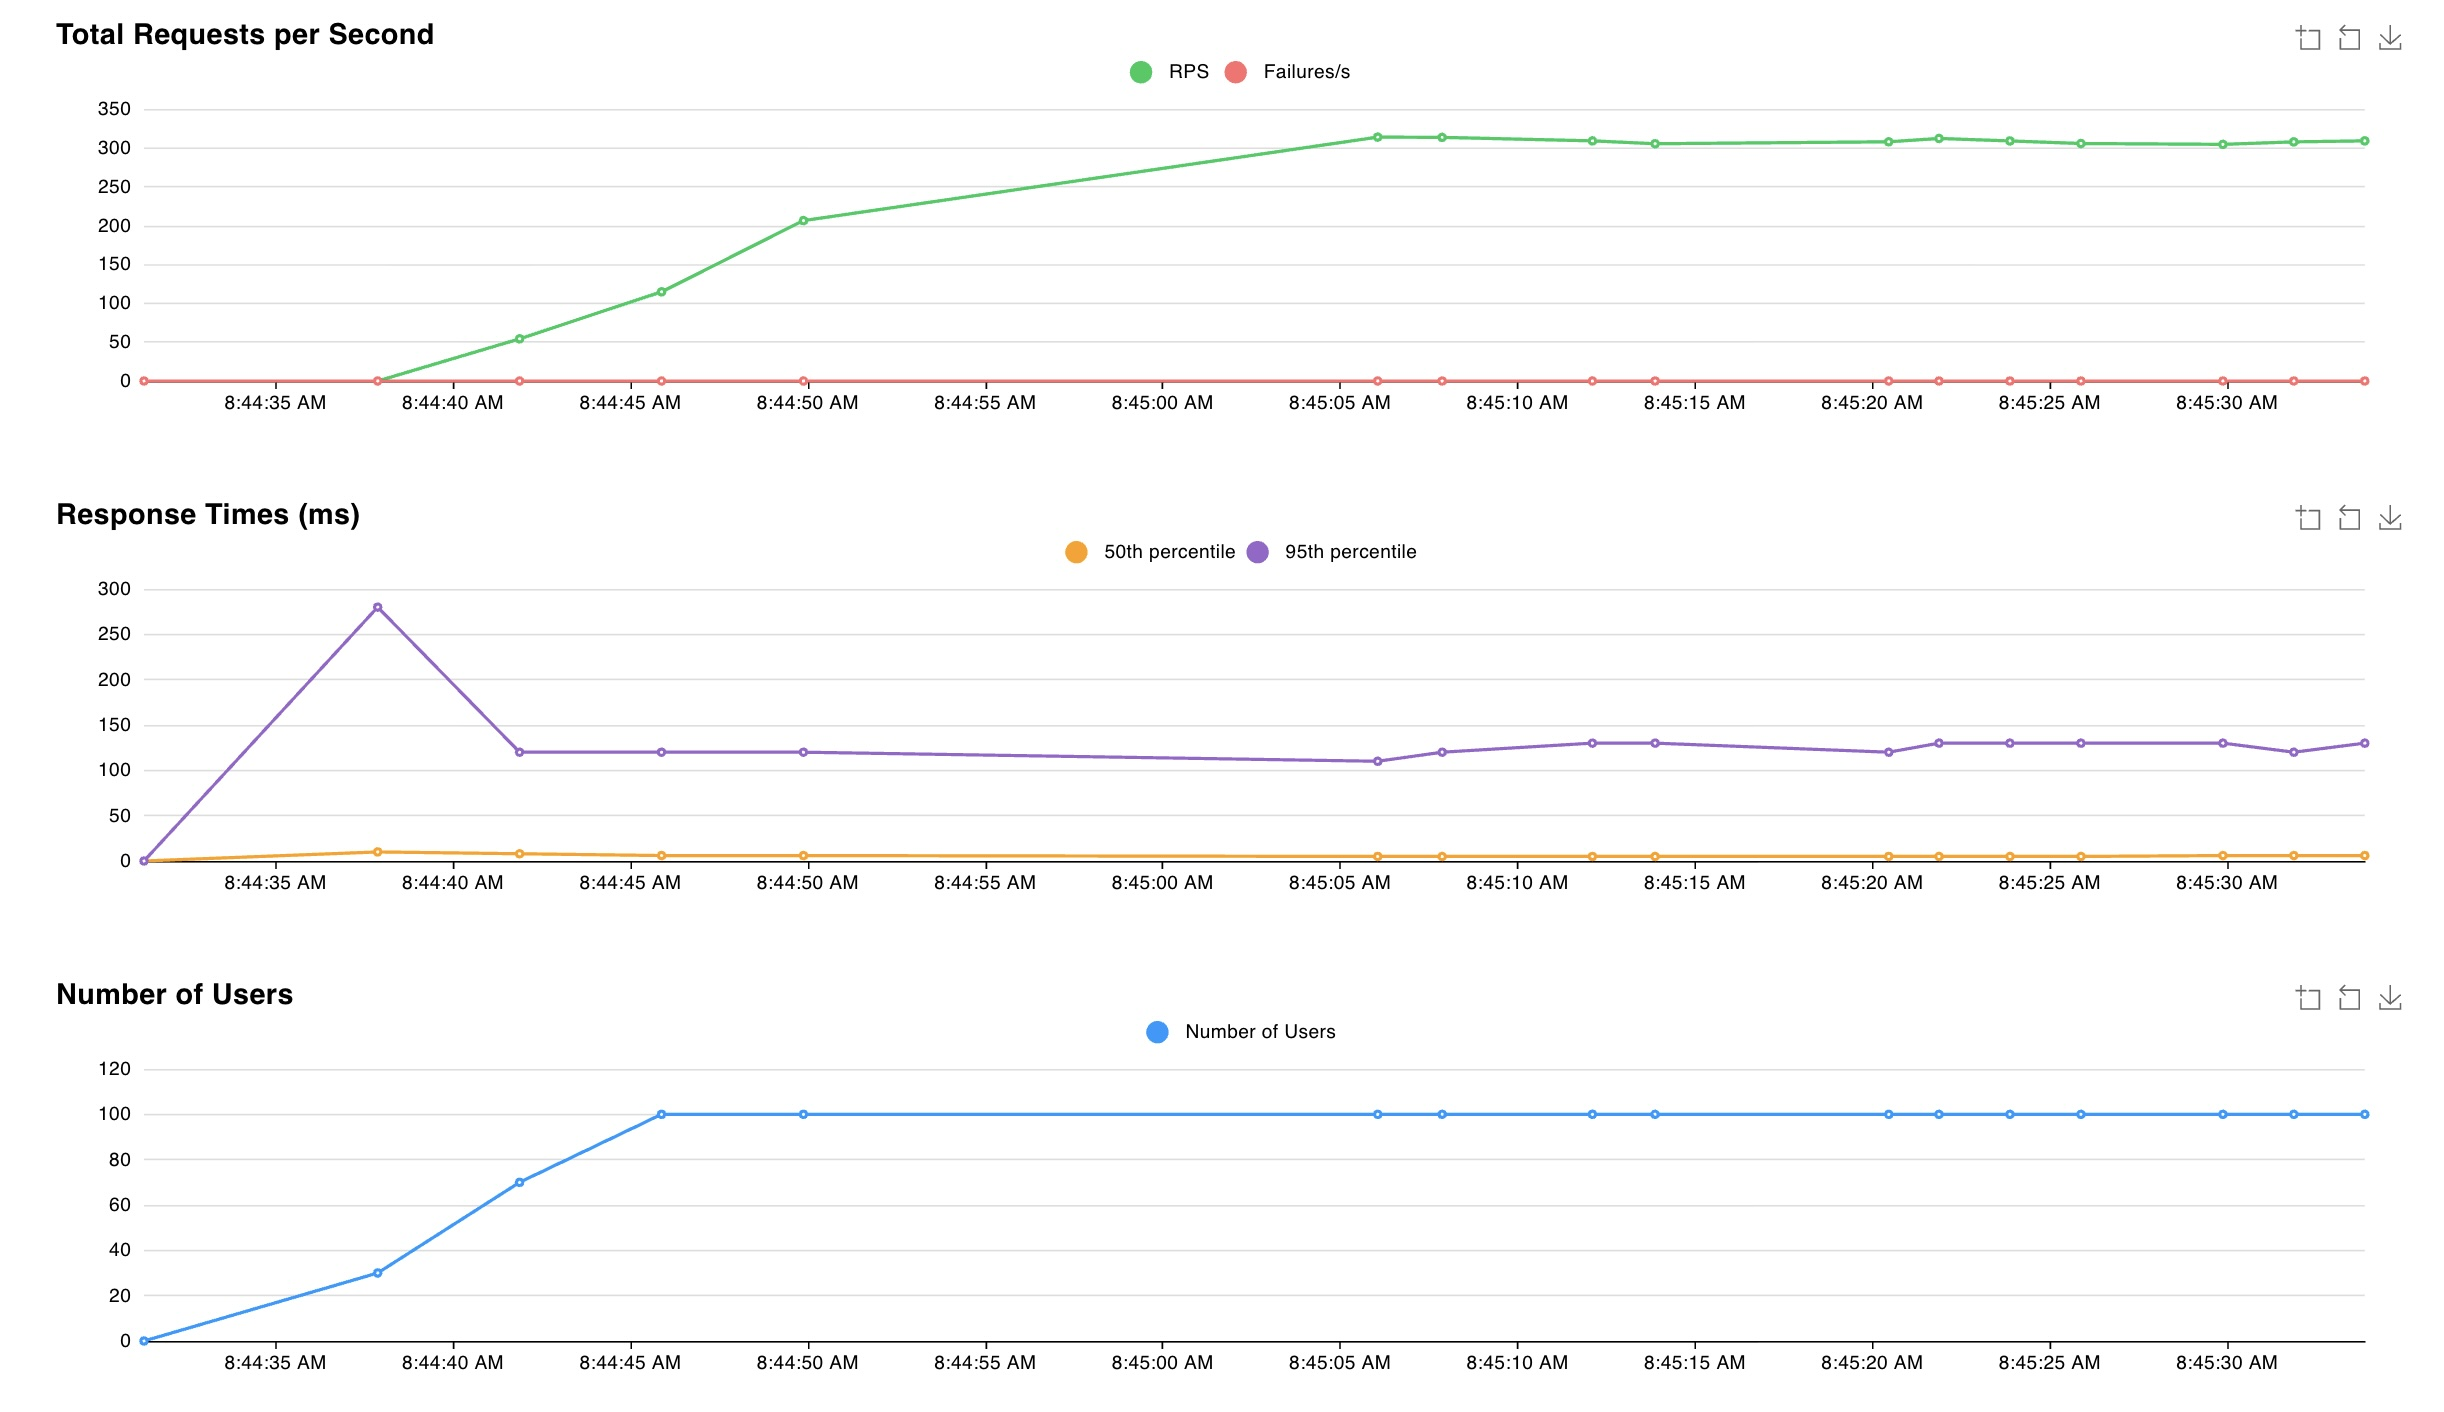
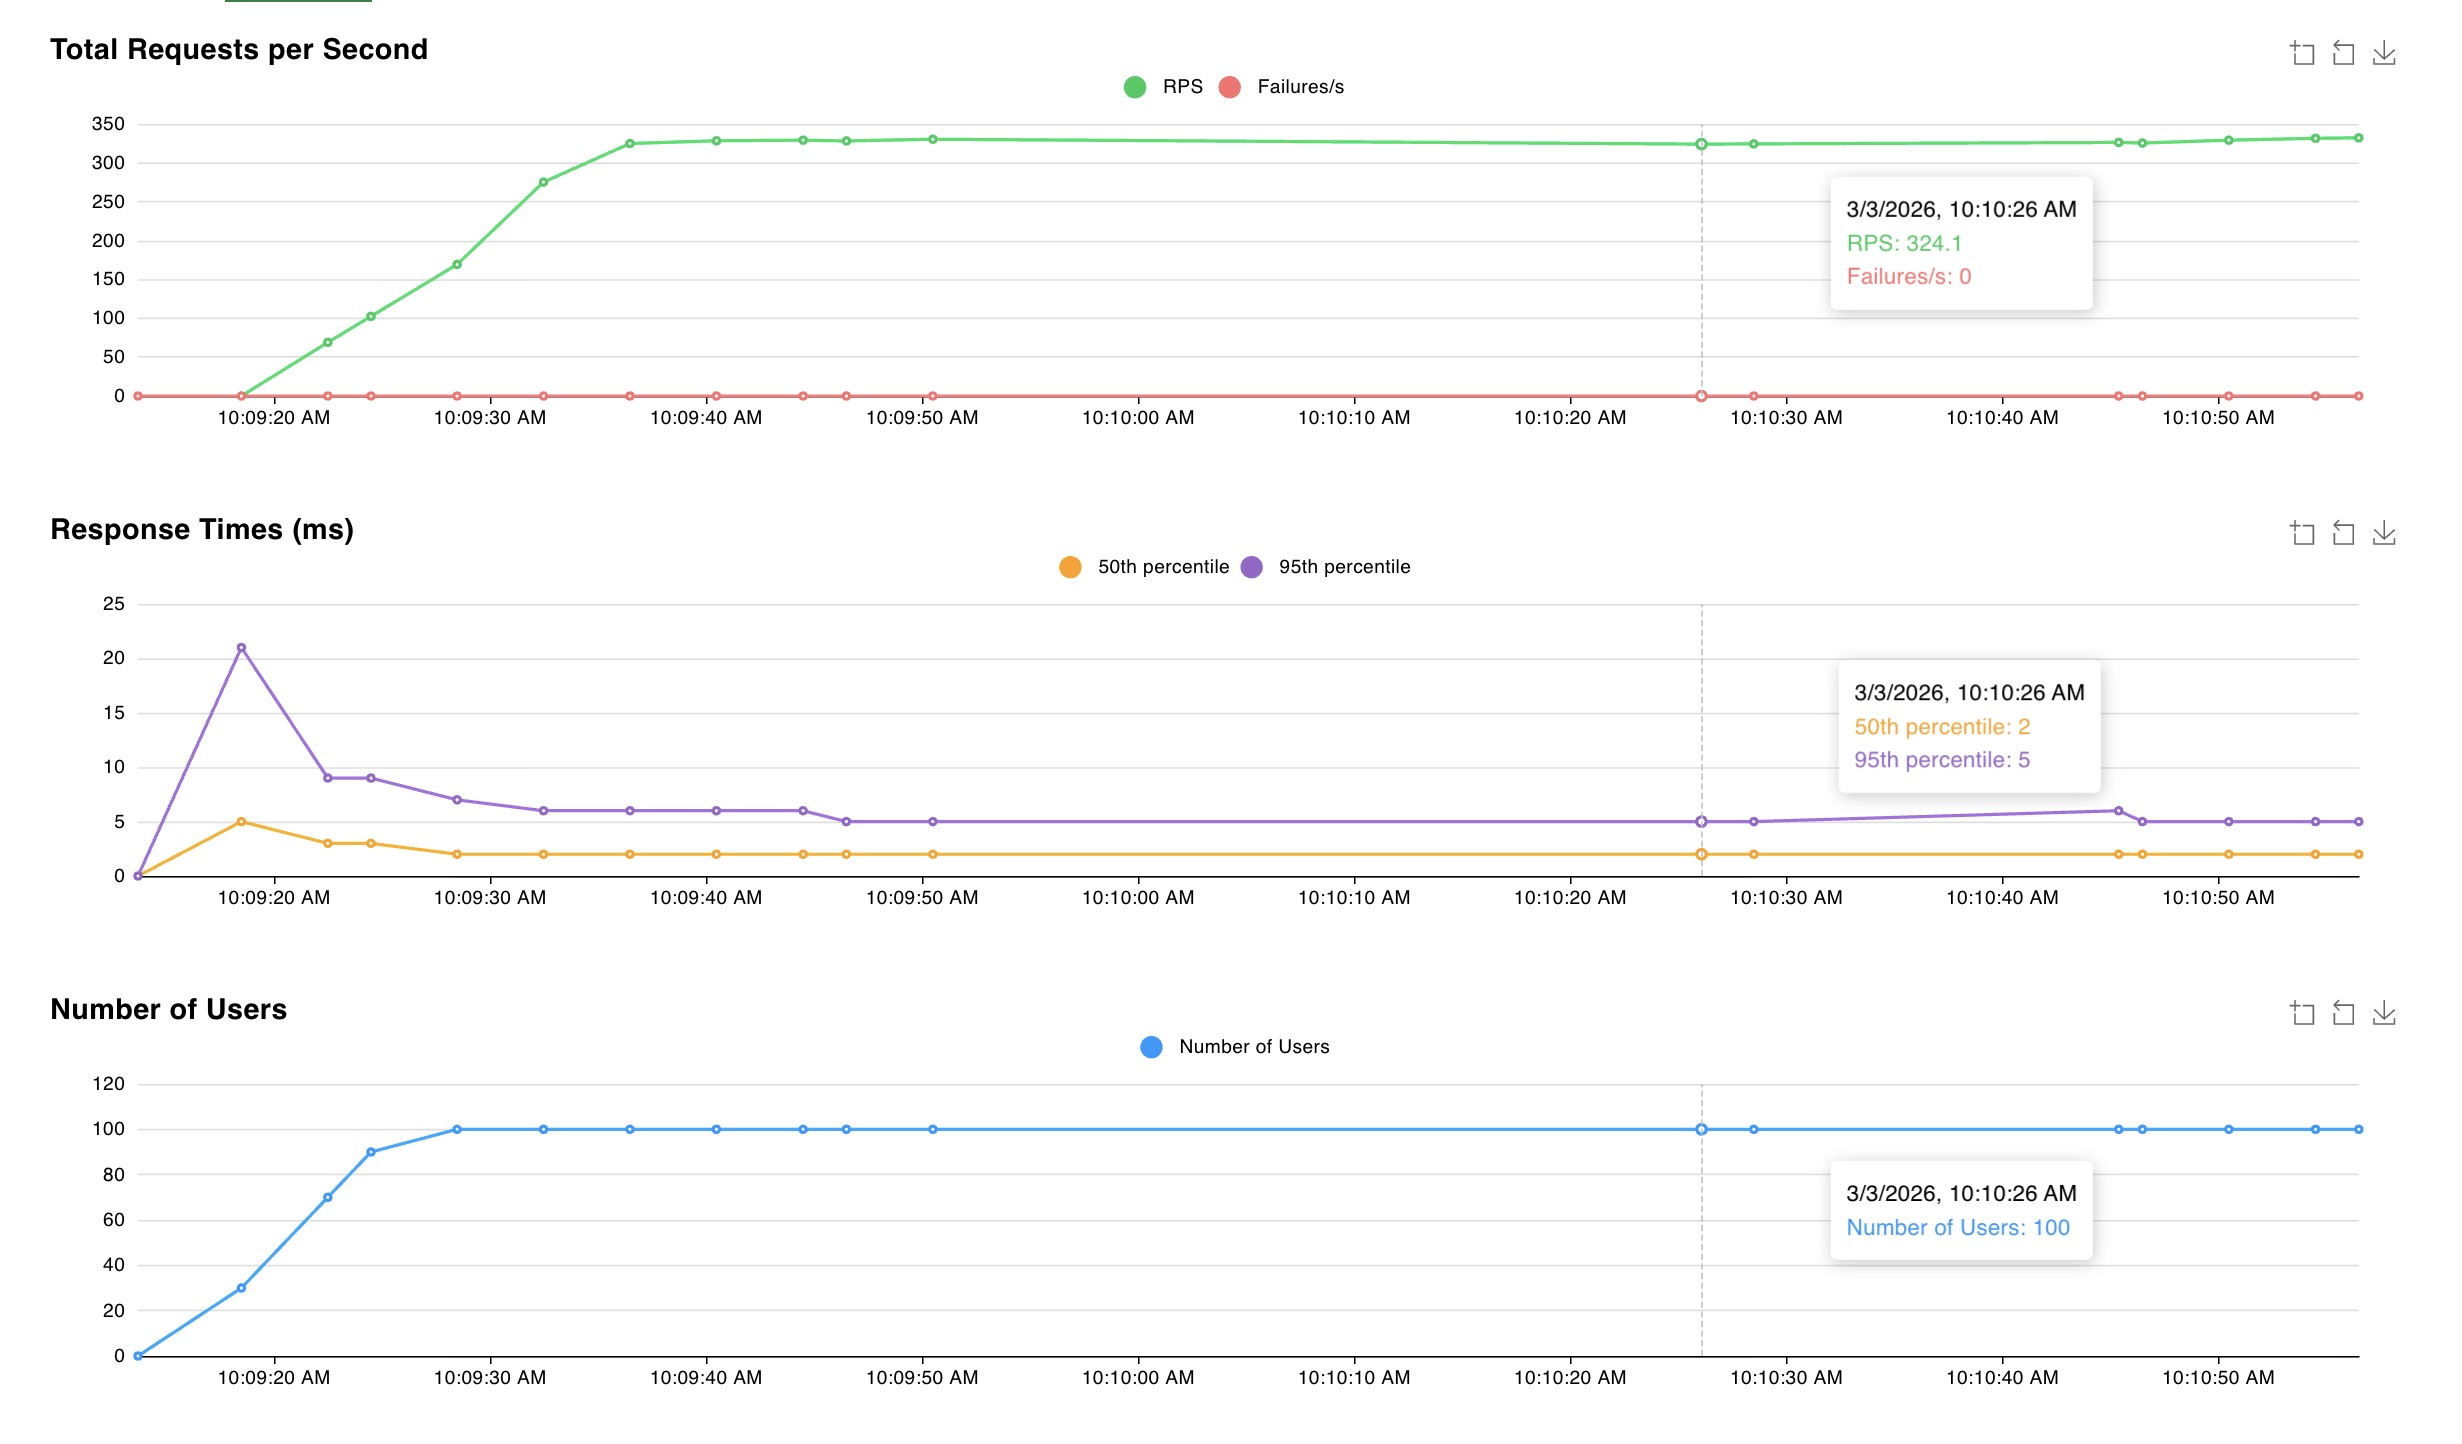
update: README.md (#18)
* docs: add assets, screenshots and flesh out README

* fix(query): parameterize SQL, fix double-query, thread-safe cache, and paginate variantes

* perf(api): offload DuckDB to thread pool via asyncio.to_thread, add /variants limit

* feat(processor): stream VCF-Parquet in 10k-row batches for constant memory usage

* docs: add /alleles load test and update README with accurate perf numbers

* refactor: remove dead parquet module, fix pool config, explicit SELECT columns

* ci(infra): add release build step and fix hardcoded Ansible container name

* docs(assets): update locust and benchmark screenshots

* chore: remove TODO.md

* docs: update benchmark numbers to 2ms p50 / 5ms p95

* docs: update 2ms p50 / 5ms p95 caveat

* update load test screenshots

diff --git a/README.md b/README.md
@@ -10,7 +10,7 @@
 
 **High-Performance, Secure Infrastructure for Genomic Variant Data**
 
-NGC Data Node is a specialized, dual-engine data platform designed to process, store, and fiercely protect genomic variant information at scale. By combining the zero-copy memory safety of **Rust** with the analytical power of **DuckDB** and a **FastAPI** secure enclave, the node provides researchers with rapid, audited data access.
+NGC Data Node is a specialized, dual-engine data platform designed to process, store, and protect genomic variant information at scale. By combining the zero-copy memory safety of **Rust** with the analytical power of **DuckDB** and a **FastAPI** secure enclave, the node provides researchers with rapid, audited data access.
 
 </div>
 
@@ -19,7 +19,7 @@ NGC Data Node is a specialized, dual-engine data platform designed to process, s
 ## ✨ Features
 
 - **Zero-Copy Parsing:** A custom Rust parser ingests `.VCF` files in streaming batches, writing directly to Apache Parquet without loading the entire file into memory.
-- **Sub-10ms API:** DuckDB scans Parquet files and serves results via a thread-safe, TTL-cached async API with a `~6ms` median response time under 100 concurrent users.
+- **Sub-5ms API:** DuckDB scans Parquet files and serves results via a thread-safe, TTL-cached async API with a `~2ms` median response time under 100 concurrent users.
 - **Secure Enclave:** API access is gatekept with API keys and an immutable Postgres audit log.
 - **Safe by Design:** Genomic data is anonymized via BLAKE3 hashing, and all query parameters are fully SQL-injection proof via DuckDB parameterized queries.
 - **Reproducible Environment:** Fully isolated dependency management driven by a `flake.nix` configuration.
@@ -125,12 +125,14 @@ Our system is rigorously stress-tested at two levels: the low-level data ingesti
 - **Macro: Parse 100k Variants:** `~20.2 ms` total execution time for the full 100,000 variant ingestion pipeline.
 
 **API Load Testing (Python/FastAPI) — 100 concurrent users, 300+ RPS:**
-- **p50 Response Time:** `~6ms` (cache-served requests).
-- **p95 Response Time:** `~130ms` (TTL cache-miss → live DuckDB Parquet scan).
+- **p50 Response Time:** `~2ms` (cache-served requests).
+- **p95 Response Time:** `~5ms` (brief spike during initial cache warm-up only; steady-state is sub-5ms).
 - **Throughput:** `300+ RPS` sustained with **0% failure rate**.
 - **Payload Size:** `~95KB` for `/variants` (1,000 row default limit), `~8.7KB` for `/alleles` (100 row cap).
 - **Concurrency Model:** Sync DuckDB calls offloaded to thread pool via `asyncio.to_thread`; cache protected by `threading.Lock` to prevent thundering herd.
 - **Scaling Note:** Multi-million variant datasets have not yet been benchmarked; performance will depend on Parquet file size and available memory.
+
+> **Note:** All figures measured locally over loopback (`127.0.0.1`) with a warm TTL cache and a 100k variant dataset. Real-world performance will differ with network latency, larger datasets, and multiple server workers.
 
 *(Run `ngc bench` to replicate the Rust data pipeline benchmarks, or `ngc locust` for API load testing).*
 
